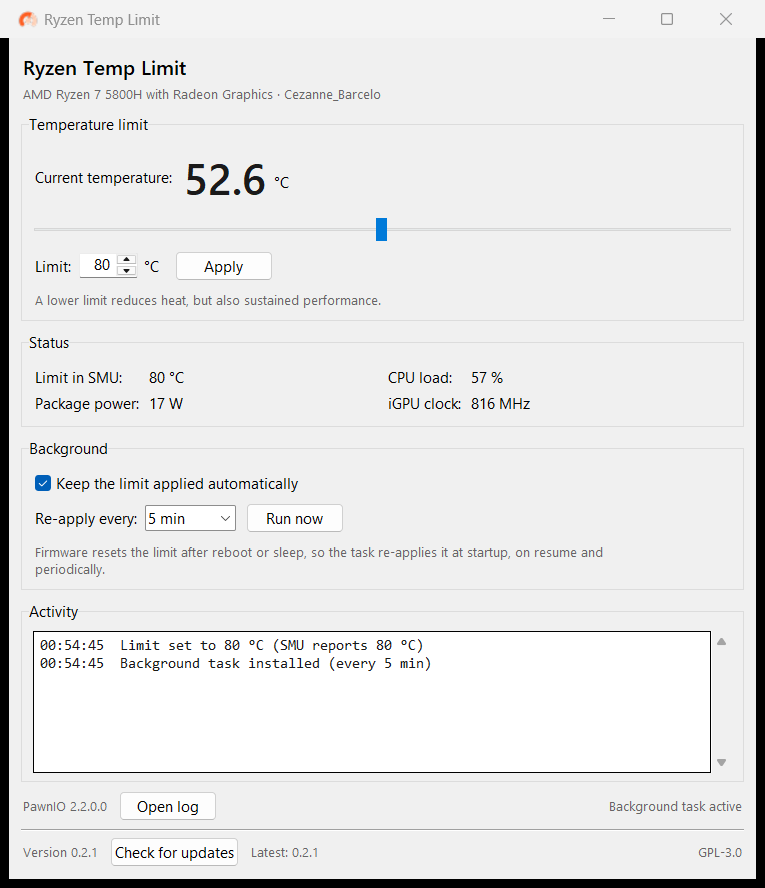
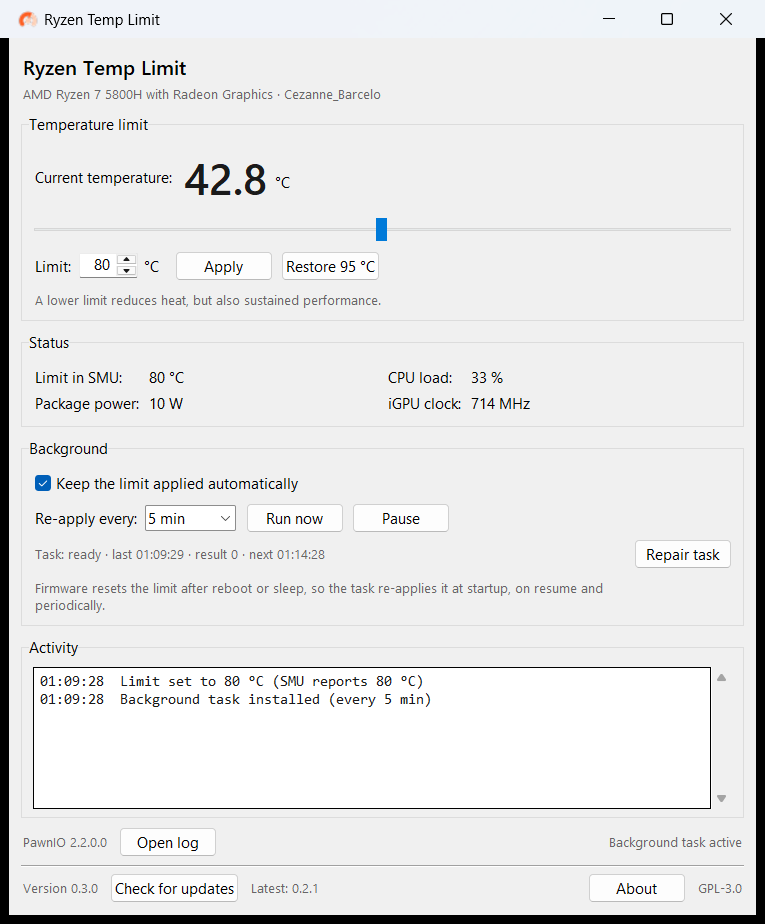
Release 0.3.0

diff --git a/ryzen_temp_limit/__init__.py b/ryzen_temp_limit/__init__.py
@@ -1,6 +1,6 @@
 """Ryzen Temp Limit - cap AMD Ryzen CPU temperature from a tiny Windows GUI."""
 
-__version__ = "0.2.1"
+__version__ = "0.3.0"
 APP_NAME = "Ryzen Temp Limit"
 TASK_NAME = "RyzenTempLimit"
 MIN_TEMP = 50

diff --git a/CHANGELOG.md b/CHANGELOG.md
@@ -1,0 +1,33 @@
+# Changelog
+
+## 0.3.0
+
+- Settings moved to `%LOCALAPPDATA%\RyzenTempLimit` and migrated from the old
+  `%ProgramData%` location automatically.
+- Single-instance guard for the GUI.
+- About dialog with PawnIO/zenmaster/Python/Tk versions, license links and
+  copy-diagnostics.
+- Restore 95 °C action.
+- Pause action that removes the background task until it is enabled again.
+- Scheduled task status (last run, result, next run) and a repair button.
+- CI now runs `ruff` and the expanded unit tests.
+
+## 0.2.1
+
+- The background task runs as the current user (`InteractiveToken`, highest
+  privileges) instead of `SYSTEM`.
+- Update files are staged in `%LOCALAPPDATA%` instead of `%TEMP%` to avoid
+  persistence heuristics.
+
+## 0.2.0
+
+- Self-update through GitHub Releases with SHA-256 verification and restart.
+- Bottom bar with installed/latest versions and an update button.
+- Automatic update check on start; source checkouts open the release page.
+- Standard Windows (ttk) interface.
+- First published release pipeline (onedir zip, onefile exe, checksums).
+
+## 0.1.0
+
+- Initial release: temperature ceiling, live status, background task,
+  PawnIO/zenmaster backend, gauge icon.

diff --git a/README.md b/README.md
@@ -21,9 +21,13 @@ driver, together with [ZenMaster](https://github.com/HorizonUnix/ZenMaster)
 - Live readout of current Tctl, load, package power and iGPU clock.
 - Read-back of the limit actually stored in the SMU.
 - Optional background scheduled task that keeps the limit applied:
-  at boot, after resume from sleep and every N minutes.
+  at logon, after resume from sleep and every N minutes.
+- Task status line (last run, result, next run) and a repair button.
+- Restore 95 °C and pause the automatic re-apply without uninstalling.
 - Update checker: asks GitHub on start, shows installed and latest versions,
   and can download, verify and install a new release by itself.
+- Single-instance guard, per-user settings, About dialog with licenses and a
+  one-click diagnostics copy.
 - No WinRing0, no unsigned drivers, no kernel patch.
 
 ## Requirements
